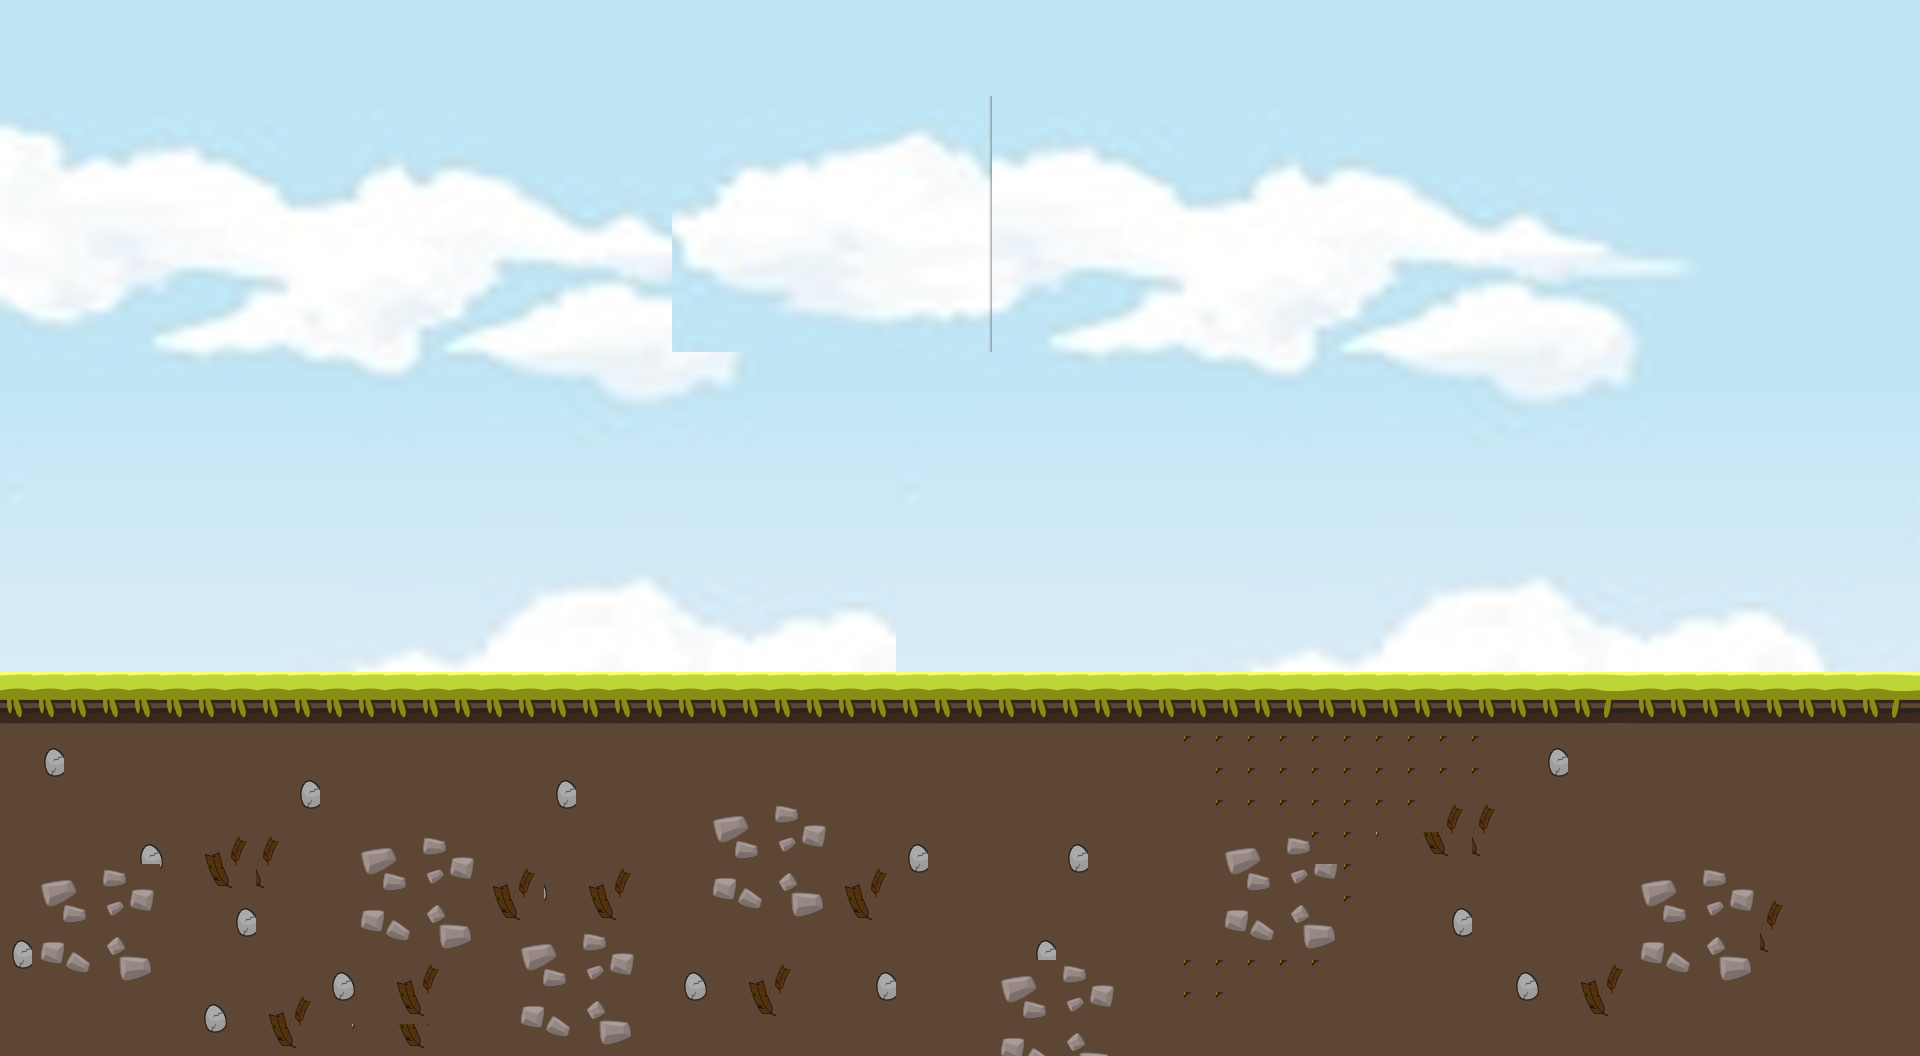
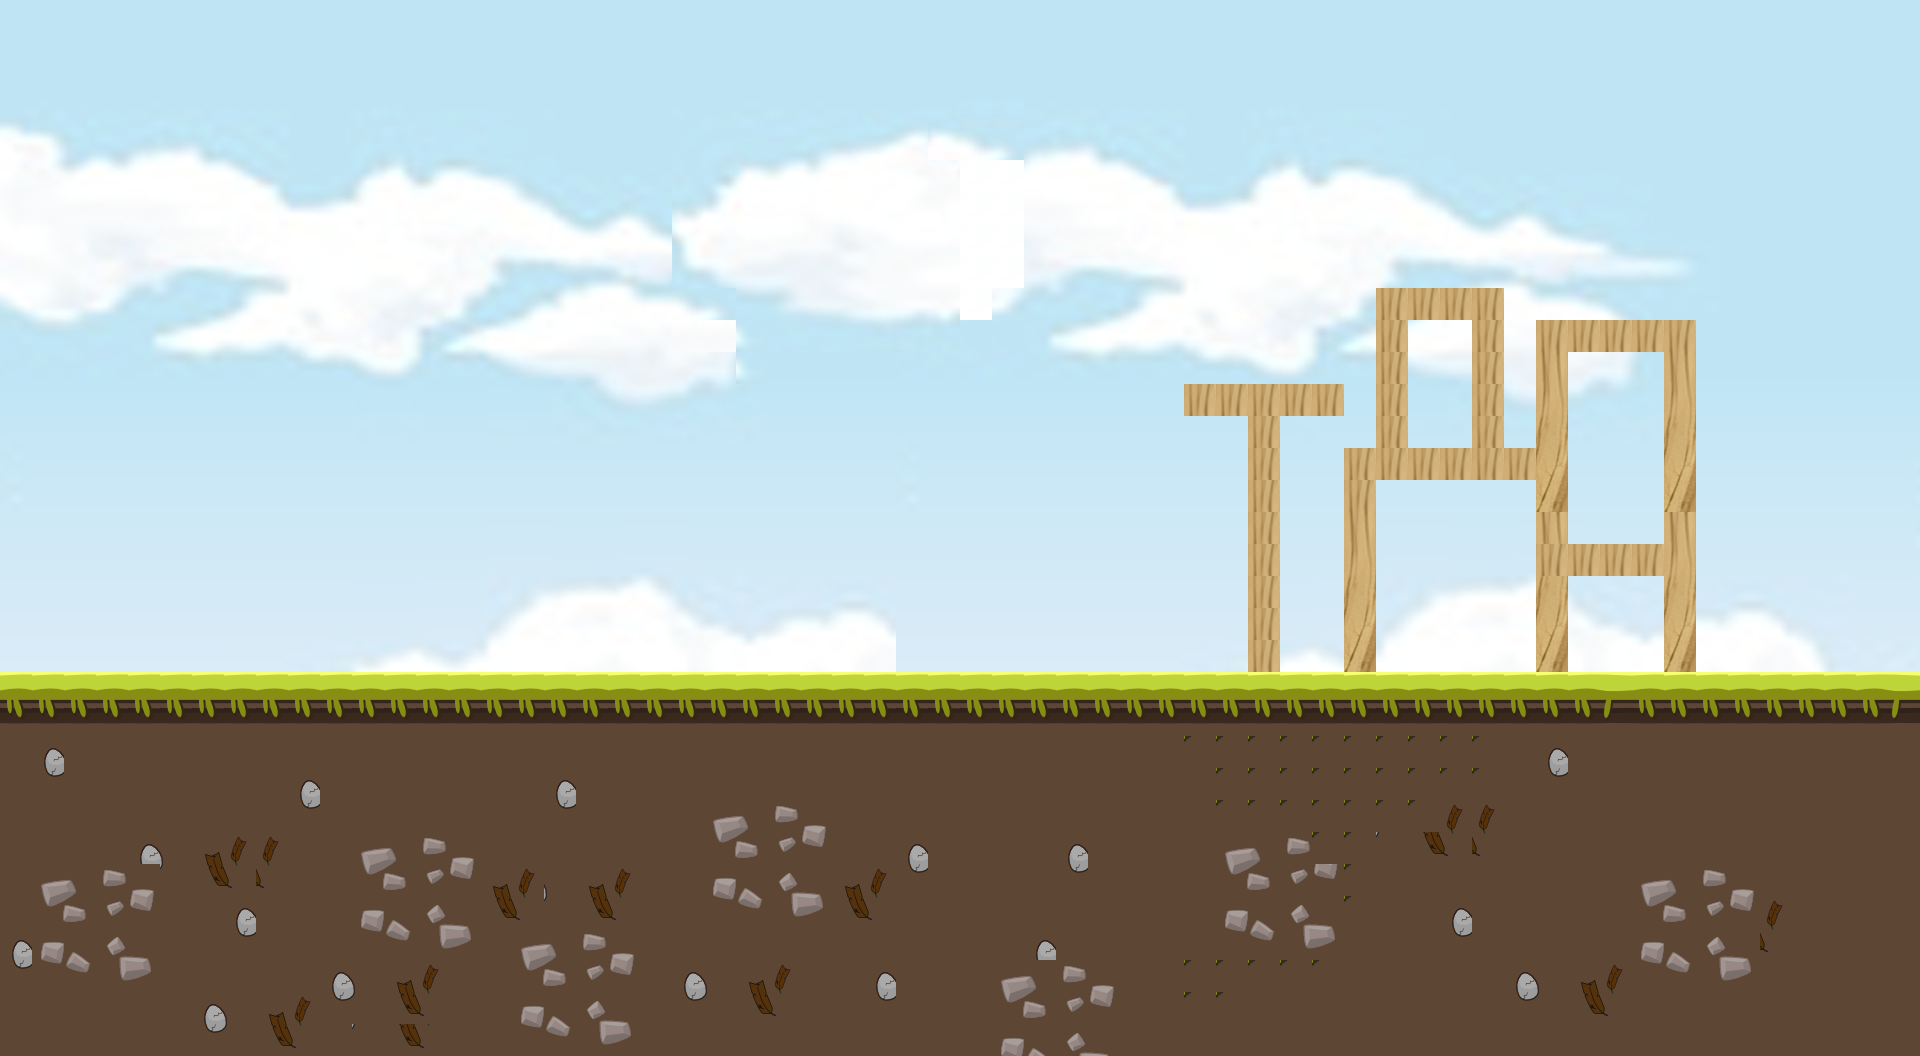
Task Update: Return Add Complete

diff --git a/core/src/main/java/io/github/angy/birds/entities/Structures.java b/core/src/main/java/io/github/angy/birds/entities/Structures.java
@@ -1,0 +1,37 @@
+// Structure.java
+package io.github.angy.birds.entities;
+
+import com.badlogic.gdx.graphics.Texture;
+import com.badlogic.gdx.graphics.g2d.SpriteBatch;
+
+public abstract class Structures {
+    protected float x, y;
+    protected Texture texture;
+    protected int durability;
+
+    public Structures(float x, float y, String texturePath, int durability) {
+        this.x = x;
+        this.y = y;
+        this.texture = new Texture(texturePath);
+        this.durability = durability;
+    }
+
+    public void render(SpriteBatch batch) {
+        batch.draw(texture, x, y);
+    }
+
+    public int getDurability() {
+        return durability;
+    }
+
+    public void takeDamage(int damage) {
+        durability -= damage;
+        if (durability <= 0) {
+            dispose();
+        }
+    }
+
+    public void dispose() {
+        texture.dispose();
+    }
+}

diff --git a/core/src/main/java/io/github/angy/birds/entities/Slingshot.java b/core/src/main/java/io/github/angy/birds/entities/Slingshot.java
@@ -1,0 +1,30 @@
+package io.github.angy.birds.entities;
+
+import com.badlogic.gdx.graphics.Texture;
+import com.badlogic.gdx.graphics.g2d.SpriteBatch;
+import com.badlogic.gdx.math.Vector2;
+
+public class Slingshot {
+    private Texture texture;
+    private float x;
+    private float y;
+    private Vector2 position;
+
+    public Slingshot(float x, float y) {
+        texture = new Texture("ui/slingshot.png");  // Assuming you have this texture
+        position = new Vector2(x, y);
+    }
+
+    public void render(SpriteBatch batch) {
+        batch.draw(texture, position.x, position.y);
+    }
+
+    public void setPosition(float x, float y) {
+        this.x = x;
+        this.y = y;
+    }
+
+    public void dispose() {
+        texture.dispose();
+    }
+}

diff --git a/core/src/main/java/io/github/angy/birds/entities/AngryBird.java b/core/src/main/java/io/github/angy/birds/entities/AngryBird.java
@@ -1,0 +1,25 @@
+package io.github.angy.birds.entities;
+
+import com.badlogic.gdx.graphics.Texture;
+import com.badlogic.gdx.graphics.g2d.SpriteBatch;
+import com.badlogic.gdx.math.Vector2;
+
+public abstract class AngryBird {
+    protected Texture texture;
+    protected Vector2 position;
+
+    public AngryBird(String texturePath, float x, float y) {
+        this.texture = new Texture(texturePath);
+        this.position = new Vector2(x, y);
+    }
+
+    public abstract void update(float delta);
+
+    public void render(SpriteBatch batch) {
+        batch.draw(texture, position.x, position.y);
+    }
+
+    public void dispose() {
+        texture.dispose();
+    }
+}

diff --git a/core/src/main/java/io/github/angy/birds/entities/Pig.java b/core/src/main/java/io/github/angy/birds/entities/Pig.java
@@ -1,0 +1,25 @@
+package io.github.angy.birds.entities;
+
+import com.badlogic.gdx.graphics.Texture;
+import com.badlogic.gdx.graphics.g2d.SpriteBatch;
+import com.badlogic.gdx.math.Vector2;
+
+public abstract class Pig {
+    protected Texture texture;
+    protected Vector2 position;
+
+    public Pig(String texturePath, float x, float y) {
+        this.texture = new Texture(texturePath);
+        this.position = new Vector2(x, y);
+    }
+
+    public abstract void update(float delta);
+
+    public void render(SpriteBatch batch) {
+        batch.draw(texture, position.x, position.y);
+    }
+
+    public void dispose() {
+        texture.dispose();
+    }
+}

diff --git a/core/src/main/java/io/github/angy/birds/entities/GreenPig.java b/core/src/main/java/io/github/angy/birds/entities/GreenPig.java
@@ -1,0 +1,22 @@
+package io.github.angy.birds.entities;
+
+public class GreenPig extends Pig {
+
+    private float x;
+    private float y;
+
+    public GreenPig(float x, float y) {
+        super("ui/pigs/helmetpig.png", x, y);  // Assuming you have this texture in your assets
+    }
+
+    @Override
+    public void update(float delta) {
+        // Add movement or animation logic here
+    }
+    public void setPosition(float x, float y) {
+        this.x = x;
+        this.y = y;
+    }
+}
+
+

diff --git a/core/src/main/java/io/github/angy/birds/entities/RedBird.java b/core/src/main/java/io/github/angy/birds/entities/RedBird.java
@@ -1,0 +1,18 @@
+package io.github.angy.birds.entities;
+
+public class RedBird extends AngryBird {
+    private float x;
+    private float y;
+
+    public RedBird(float x, float y) {
+        super("ui/angry birds/redbird.png", x, y);  // Assuming you have this texture in your assets
+    }
+
+    @Override
+    public void update(float delta) {
+    }
+    public void setPosition(float x, float y) {
+        this.x = x;
+        this.y = y;
+    }
+}

diff --git a/lwjgl3/src/main/java/io/github/angy/birds/lwjgl3/Lwjgl3Launcher.java b/lwjgl3/src/main/java/io/github/angy/birds/lwjgl3/Lwjgl3Launcher.java
@@ -19,7 +19,7 @@ public class Lwjgl3Launcher {
 
     private static Lwjgl3ApplicationConfiguration getDefaultConfiguration() {
         Lwjgl3ApplicationConfiguration configuration = new Lwjgl3ApplicationConfiguration();
-        configuration.setTitle("Angy Bibz");
+        configuration.setTitle("Angry Birds");
 
         // Vsync settings
         configuration.useVsync(true);

diff --git a/core/src/main/java/io/github/angy/birds/entities/YellowBird.java b/core/src/main/java/io/github/angy/birds/entities/YellowBird.java
@@ -1,0 +1,12 @@
+package io.github.angy.birds.entities;
+
+public class YellowBird extends AngryBird {
+    public YellowBird(float x, float y) {
+        super("ui/angry birds/yellowbird.png", x, y);  // Assuming you have this texture in your assets
+    }
+
+    @Override
+    public void update(float delta) {
+        // Add movement or animation logic here
+    }
+}

diff --git a/core/src/main/java/io/github/angy/birds/entities/KingPig.java b/core/src/main/java/io/github/angy/birds/entities/KingPig.java
@@ -1,0 +1,13 @@
+package io.github.angy.birds.entities;
+
+public class KingPig extends Pig {
+
+    public KingPig(float x, float y) {
+        super("ui/pigs/kingpig.png", x, y);  // Assuming you have this texture in your assets
+    }
+
+    @Override
+    public void update(float delta) {
+        // Add movement or animation logic here
+    }
+}

diff --git a/core/src/main/java/io/github/angy/birds/entities/WoodBlock.java b/core/src/main/java/io/github/angy/birds/entities/WoodBlock.java
@@ -1,0 +1,8 @@
+// WoodBlock.java
+package io.github.angy.birds.entities;
+
+public class WoodBlock extends Structures {
+    public WoodBlock(float x, float y) {
+        super(x, y, "sprites/wood_block.png", 50);
+    }
+}
